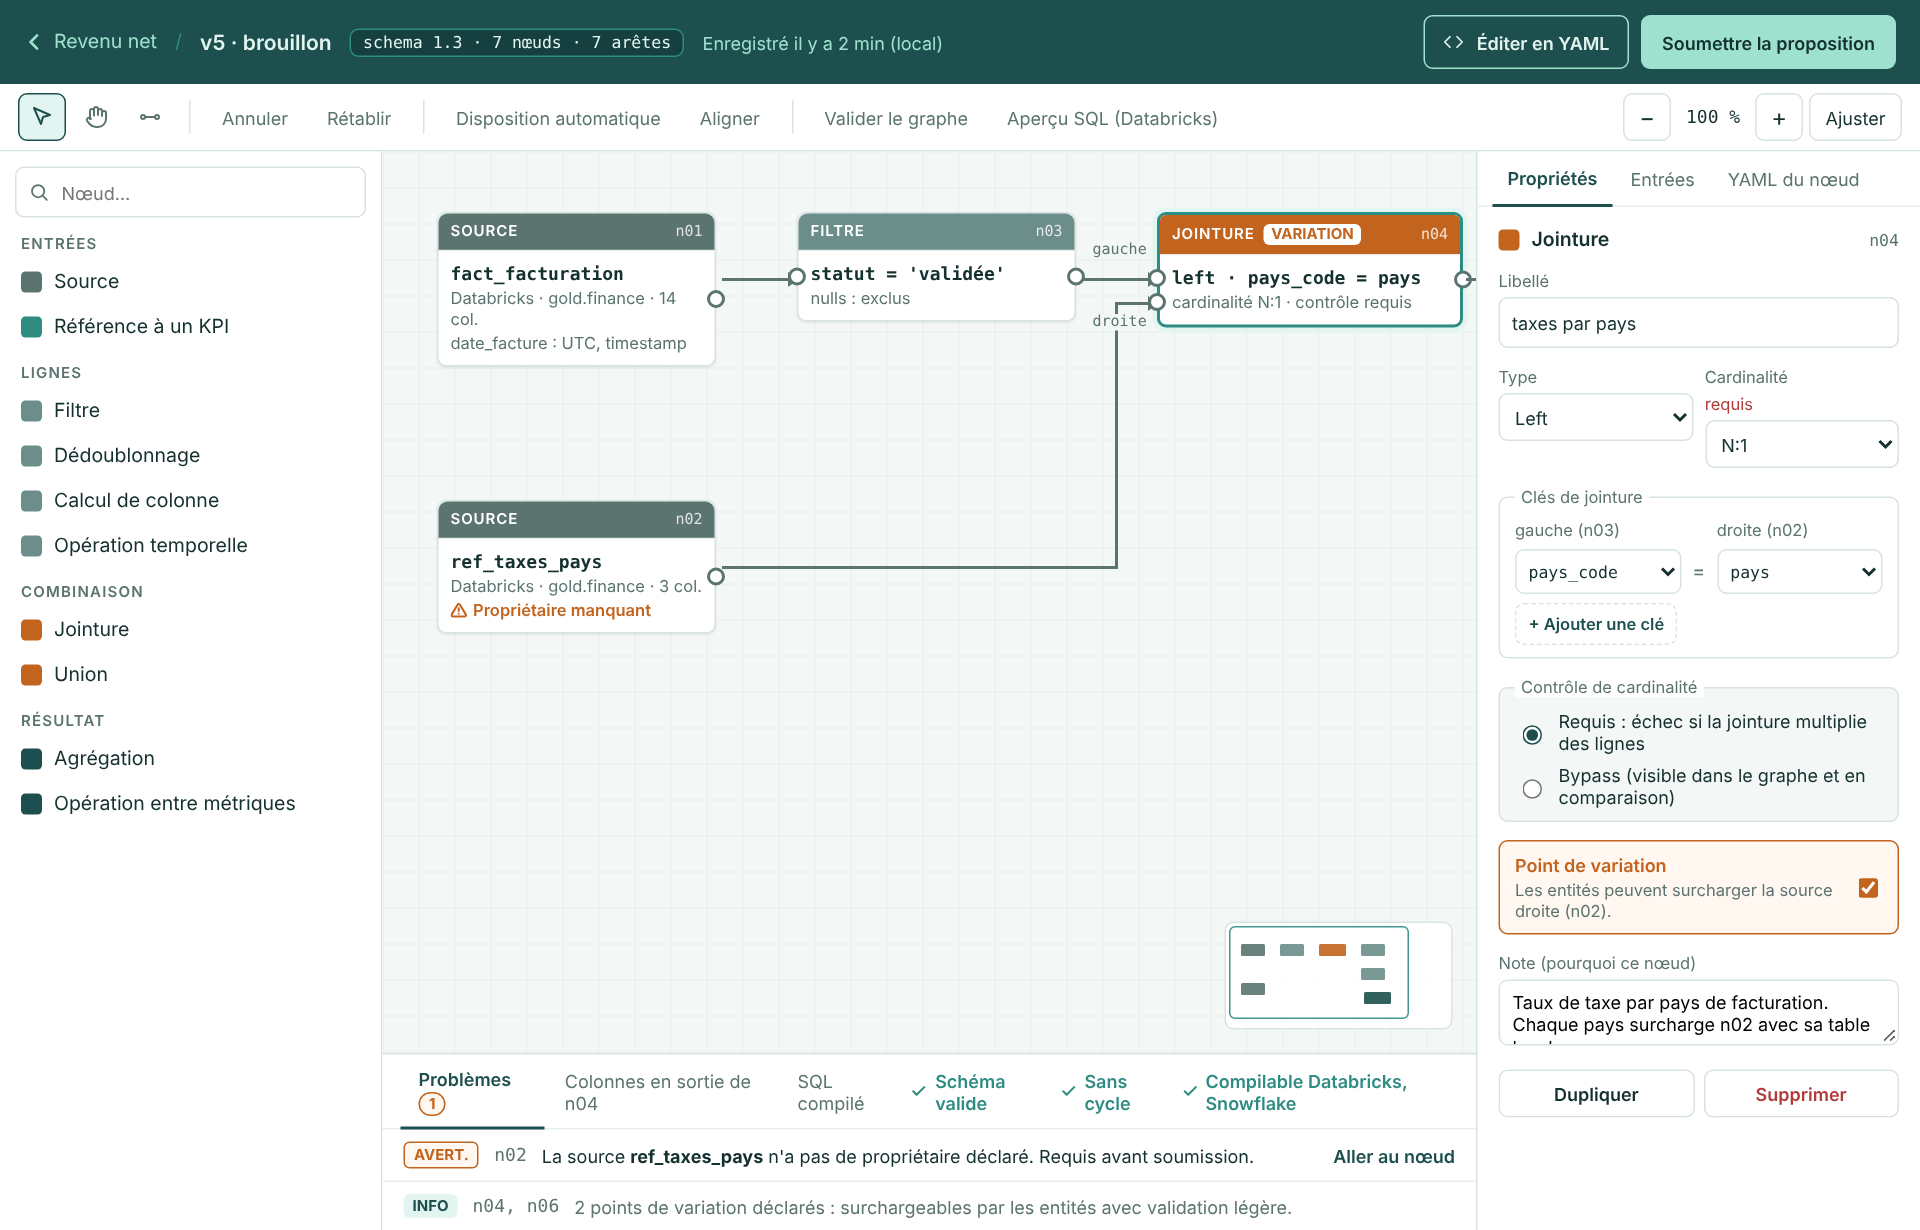
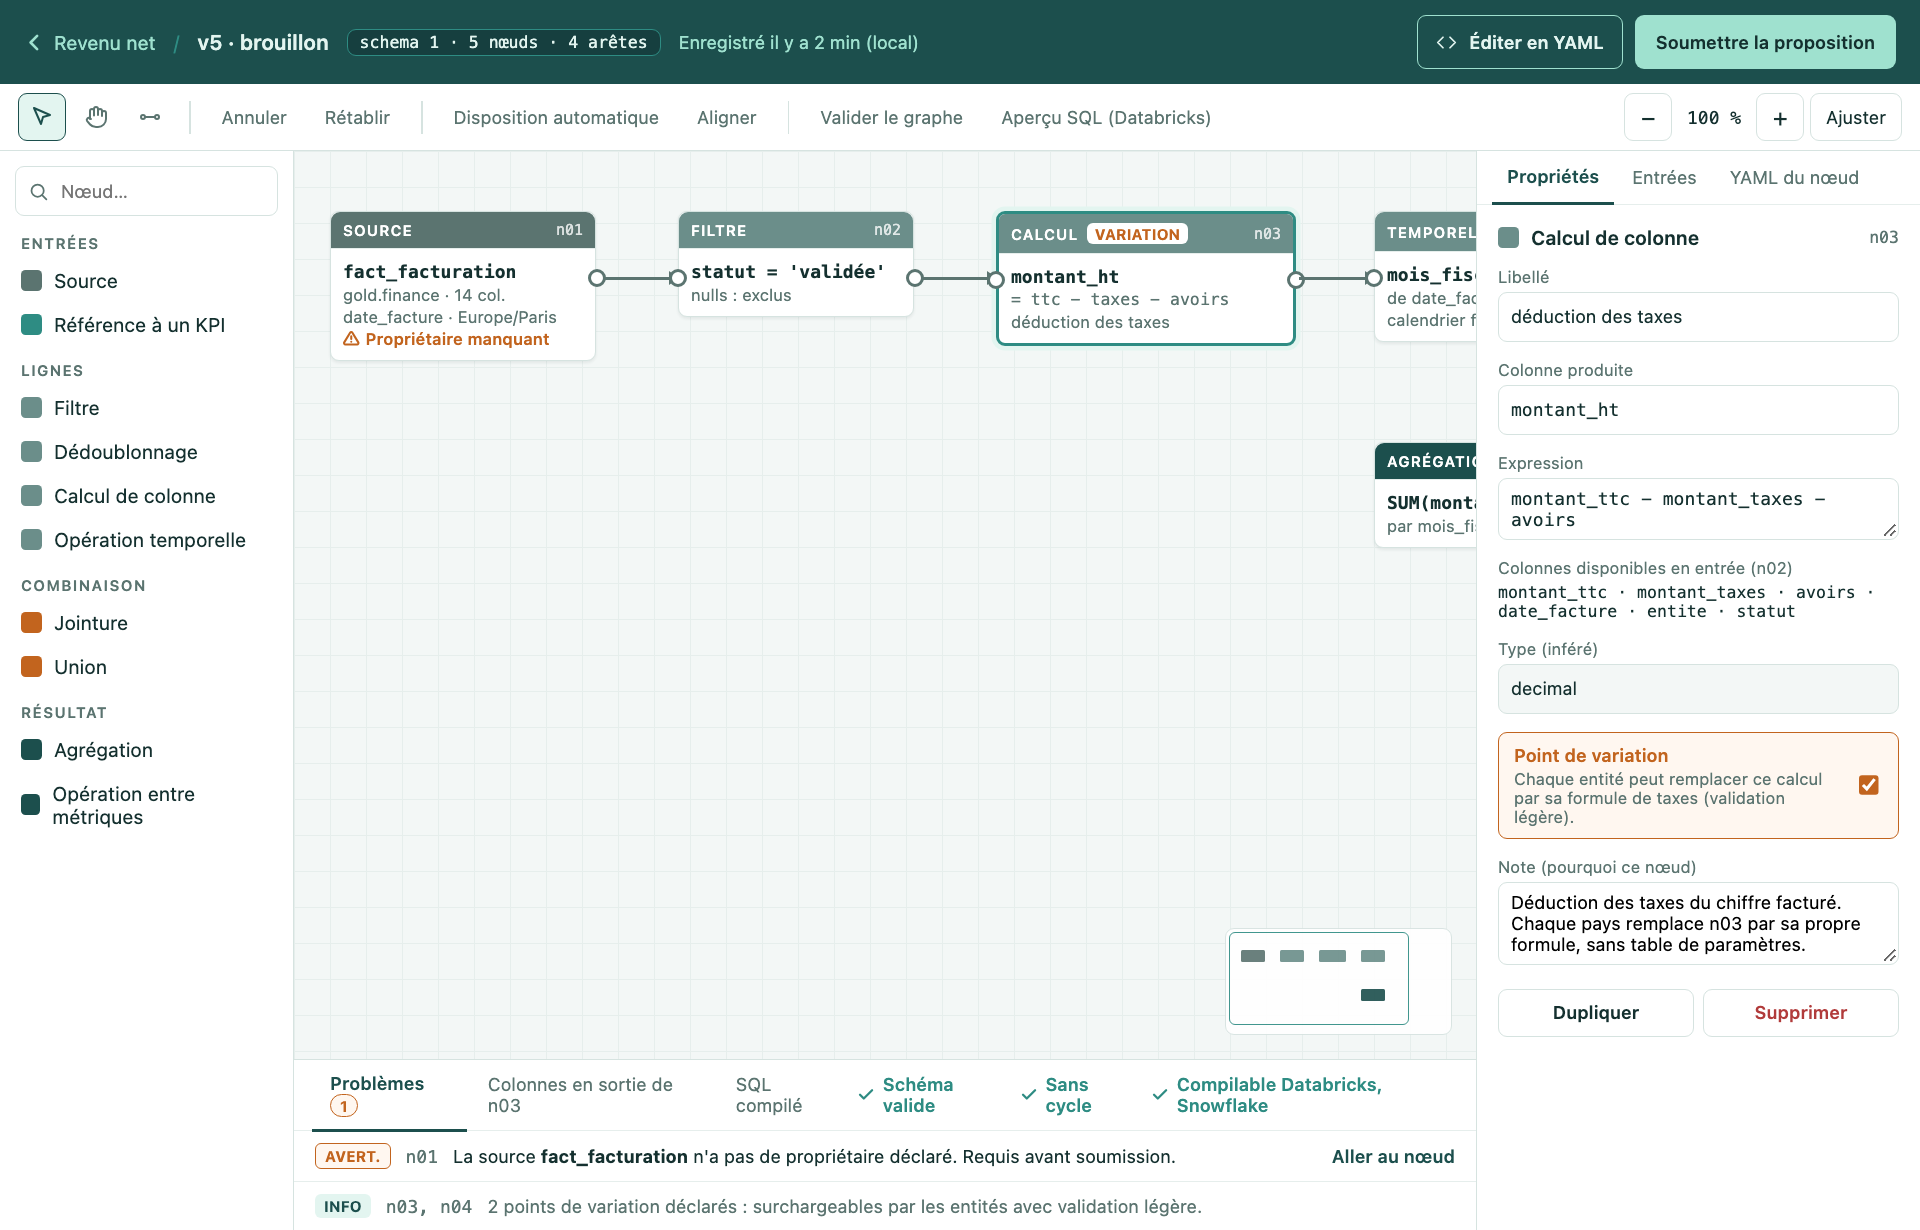
docs: captures des 8 écrans régénérées, plans validés
Les captures montraient l'exemple avec table de taxes et « Annuaire » ;
elles reprennent les maquettes à jour (même format 1280 px × 1,5).

diff --git a/docs/plans/README.md b/docs/plans/README.md
@@ -1,5 +1,7 @@
 Plans spec-driven, un par fichier, numérotés (voir docs/KICKOFF.md). Analyse préalable : `docs/analysis.md`.
 
+Statut : plans validés le 30 octobre 2026, développement lancé par le plan 0001.
+
 | Plan | Titre | Livrable observable | Dépend de | Taille |
 |---|---|---|---|---|
 | 0001 | Modèle des dix nœuds et YAML versionné | `atlas validate`, `atlas schema` | — | M |
